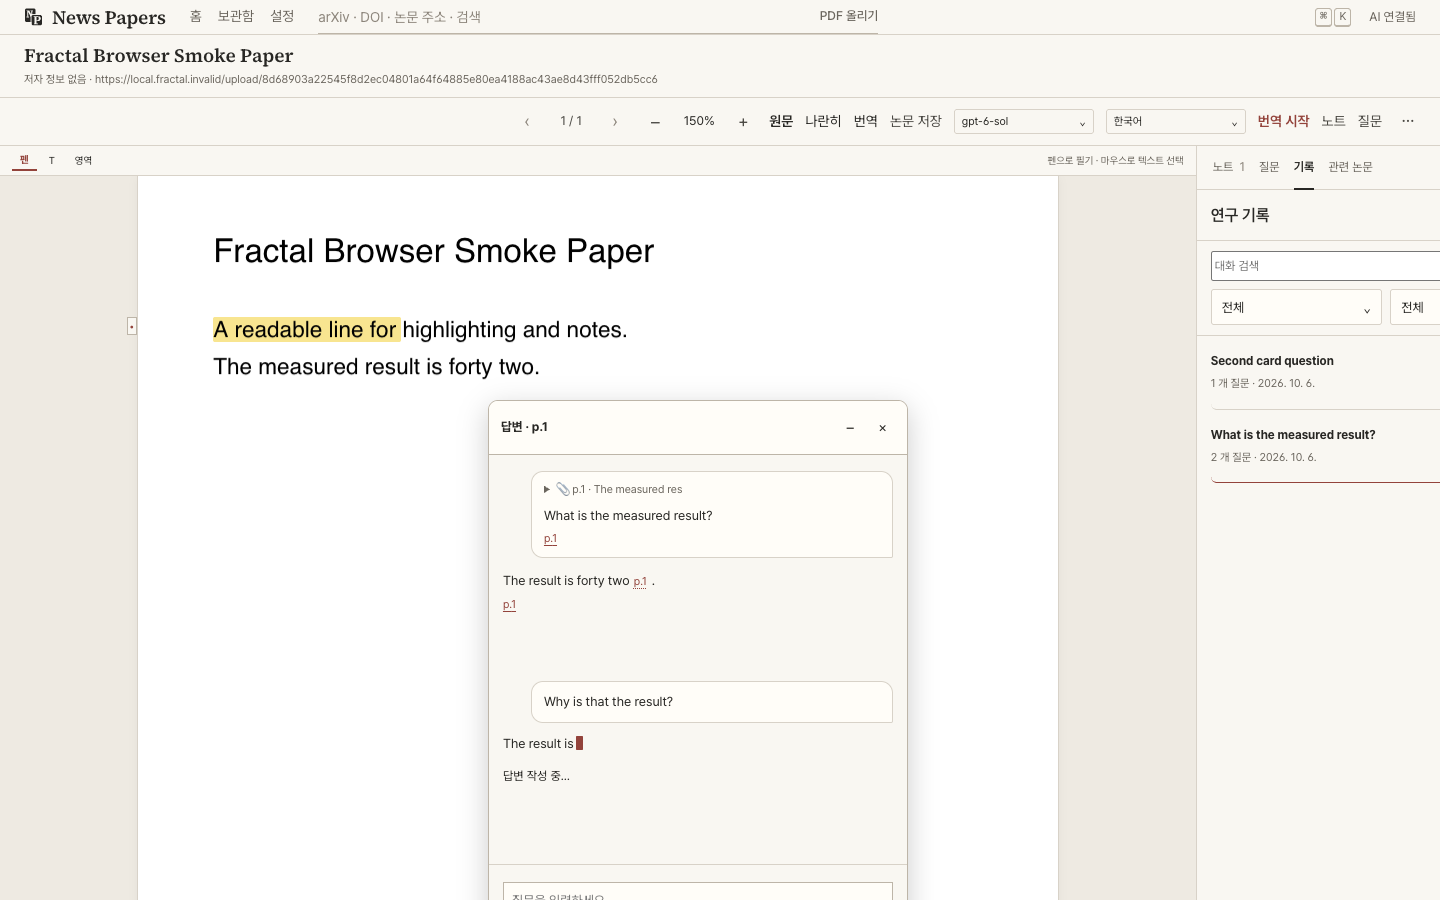
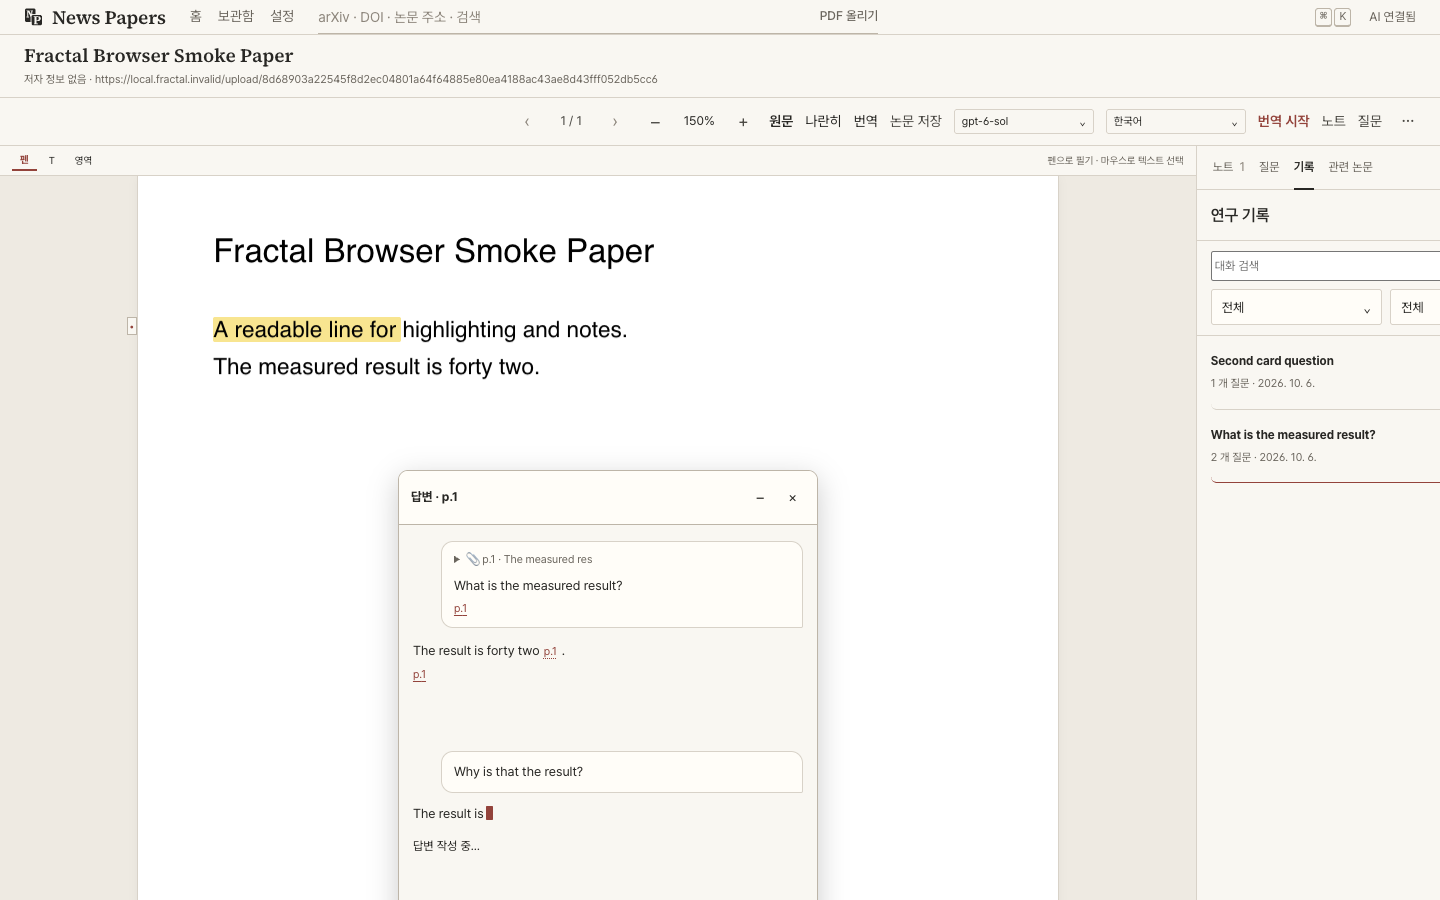
Collapsed answer markers can be dragged from anywhere on the marker
On desktop the 40px collapsed card is almost all expand button, and drags that
started on a button were ignored, so the marker only moved when grabbed by its
4px edge. The marker now starts a drag; a press without movement still expands.
On Android the collapsed marker was tap-only; it now drags (and saves) as well.
The source stays highlighted while a collapsed marker is dragged.

diff --git a/apps/android/app/src/main/java/app/fractal/reader/ReaderPageAnswers.kt b/apps/android/app/src/main/java/app/fractal/reader/ReaderPageAnswers.kt
@@ -1,6 +1,8 @@
 package app.fractal.reader
 
 import androidx.compose.foundation.Canvas
+import androidx.compose.foundation.gestures.detectDragGestures
+import androidx.compose.foundation.gestures.detectTapGestures
 import androidx.compose.foundation.layout.*
 import androidx.compose.material3.*
 import androidx.compose.runtime.*
@@ -8,8 +10,13 @@ import androidx.compose.ui.*
 import androidx.compose.ui.geometry.Offset
 import androidx.compose.ui.geometry.Size
 import androidx.compose.ui.graphics.Path
+import androidx.compose.ui.input.pointer.pointerInput
 import androidx.compose.ui.platform.LocalDensity
 import androidx.compose.ui.platform.testTag
+import androidx.compose.ui.semantics.Role
+import androidx.compose.ui.semantics.onClick
+import androidx.compose.ui.semantics.role
+import androidx.compose.ui.semantics.semantics
 import androidx.compose.ui.unit.*
 import app.fractal.data.*
 import app.fractal.design.LocalFractalColors
@@ -69,8 +76,8 @@ internal fun BoxScope.ReaderPageAnswers(app: ReaderApplication, paperKey: String
         }
         LaunchedEffect(saved) { saved?.let { state = it.state; if (!active) position = Offset(it.x * width, it.y * height) } }
         // Keep the overlay mounted: inserting a page sibling during DOWN cancels child gestures.
-        Canvas(Modifier.matchParentSize().testTag(if (active && state == "open") "reader-answer-source-$thread" else "reader-answer-source-inactive-$thread")) {
-            if (active && state == "open") {
+        Canvas(Modifier.matchParentSize().testTag(if (active && state != "dismissed") "reader-answer-source-$thread" else "reader-answer-source-inactive-$thread")) {
+            if (active && state != "dismissed") {
                 val selection = target.selected.second
                 val range = pin?.provenance?.get("layoutRange") as? JsonObject
                 val start = range?.get("start")?.jsonPrimitive?.intOrNull
@@ -98,10 +105,22 @@ internal fun BoxScope.ReaderPageAnswers(app: ReaderApplication, paperKey: String
         when (state) {
             "open" -> key("answer-card") { ReaderAnswerCard(app, paperKey, pages, target, position, { position = it }, width.toFloat(), height.toFloat(), onJump,
                 onClose = { persist("dismissed") }, onMinimize = { persist("collapsed") }, onMoveEnd = { moveJob?.cancel(); moveJob = app.submissionScope.launch { delay(250); persist() } }, onActive = { active = it }) }
-            "collapsed" -> Surface(onClick = { persist("open") }, modifier = Modifier.offset {
+            // The marker is both the expand button and the handle that moves the collapsed card.
+            "collapsed" -> Surface(modifier = Modifier.offset {
                 IntOffset(position.x.roundToInt().coerceIn(0, (width - with(density) { 32.dp.roundToPx() }).coerceAtLeast(0)),
                     position.y.roundToInt().coerceIn(0, (height - with(density) { 32.dp.roundToPx() }).coerceAtLeast(0)))
-            }.size(32.dp).nativeInkBlocker().testTag("reader-answer-pin-${pin?.requestId ?: thread}"),
+            }.size(32.dp).nativeInkBlocker()
+                .pointerInput(thread) { detectTapGestures(onTap = { persist("open") }) }
+                .pointerInput(thread, width, height) {
+                    val marker = 32.dp.toPx()
+                    detectDragGestures(onDragStart = { active = true }, onDragEnd = { active = false; persist() }, onDragCancel = { active = false; persist() }) { change, amount ->
+                        change.consume()
+                        position = Offset((position.x + amount.x).coerceIn(0f, (width - marker).coerceAtLeast(0f)),
+                            (position.y + amount.y).coerceIn(0f, (height - marker).coerceAtLeast(0f)))
+                    }
+                }
+                .semantics { role = Role.Button; onClick(label = if (target.explain || pin?.kind == "explanation") "Open explanation" else "Open answer") { persist("open"); true } }
+                .testTag("reader-answer-pin-${pin?.requestId ?: thread}"),
                 shape = androidx.compose.foundation.shape.CircleShape, color = colors.focus) {
                 Box(contentAlignment = Alignment.Center) { Text(if (target.explain || pin?.kind == "explanation") "i" else "?", color = colors.paper) }
             }

diff --git a/packages/ui/src/reader/AnswerPopup.tsx b/packages/ui/src/reader/AnswerPopup.tsx
@@ -307,16 +307,22 @@ function PageCard({
     if (host.current) observer.observe(host.current);
     return () => observer.disconnect();
   }, [page]);
+  // A collapsed card is almost all marker button, so the marker itself must be a drag handle;
+  // a press that does not move still expands it through the button's click.
+  const dragged = useRef(false);
   const drag = (event: React.PointerEvent) => {
-    if (event.button !== 0 || (event.target as HTMLElement).closest('button')) return;
-    event.preventDefault();
+    const onButton = (event.target as HTMLElement).closest('button');
+    if (event.button !== 0 || (onButton && !(collapsed && onButton.hasAttribute('aria-expanded')))) return;
+    if (!onButton) event.preventDefault();
     event.stopPropagation();
-    heading.current?.focus({ preventScroll: true });
+    dragged.current = false;
+    if (!onButton) heading.current?.focus({ preventScroll: true });
     const box = page.getBoundingClientRect(),
       start = { x: event.clientX, y: event.clientY };
     let next = { x: position.x, y: position.y };
-    setMoving(next);
     const move = (e: PointerEvent) => {
+      if (!dragged.current && Math.hypot(e.clientX - start.x, e.clientY - start.y) < 4) return;
+      dragged.current = true;
       next = clamp({ x: position.x + (e.clientX - start.x) / box.width, y: position.y + (e.clientY - start.y) / box.height });
       setMoving(next);
     };
@@ -324,8 +330,12 @@ function PageCard({
       window.removeEventListener('pointermove', move);
       window.removeEventListener('pointerup', end);
       window.removeEventListener('pointercancel', end);
-      update(next);
+      if (dragged.current) update(next);
       setMoving(null);
+      // The click that ends a drag fires right after pointerup; later clicks are real clicks.
+      window.setTimeout(() => {
+        dragged.current = false;
+      });
     };
     window.addEventListener('pointermove', move);
     window.addEventListener('pointerup', end);
@@ -388,7 +398,13 @@ function PageCard({
           <button
             aria-expanded={!collapsed}
             aria-label={collapsed ? say('Expand answer', '답변 펼치기') : say('Collapse answer', '답변 접기')}
-            onClick={() => update({ state: collapsed ? 'open' : 'collapsed' })}
+            onClick={() => {
+              if (dragged.current) {
+                dragged.current = false;
+                return;
+              }
+              update({ state: collapsed ? 'open' : 'collapsed' });
+            }}
           >
             {collapsed ? (card.source.kind && card.source.kind !== 'text' ? 'i' : '?') : '−'}
           </button>

diff --git a/apps/android/app/src/androidTest/java/app/fractal/reader/ReaderAnswerCardTest.kt b/apps/android/app/src/androidTest/java/app/fractal/reader/ReaderAnswerCardTest.kt
@@ -132,7 +132,16 @@ class ReaderAnswerCardTest {
         assertTrue("Card scrolls with the PDF page", after.top < before.top - 20f)
         screenshot("01-page-scroll")
         compose.onNodeWithTag("reader-answer-collapse").performClick()
-        compose.onNodeWithTag("reader-answer-pin-retained-root-$key").assertExists().performClick()
+        val pin = compose.onNodeWithTag("reader-answer-pin-retained-root-$key").assertExists()
+        val pinBefore = pin.fetchSemanticsNode().boundsInRoot
+        // The collapsed marker is its own drag handle: dragging moves it and keeps it collapsed.
+        pin.performTouchInput { down(center); moveBy(androidx.compose.ui.geometry.Offset(60f, 90f)); moveBy(androidx.compose.ui.geometry.Offset(60f, 90f)); up() }
+        compose.waitForIdle()
+        val pinAfter = compose.onNodeWithTag("reader-answer-pin-retained-root-$key").fetchSemanticsNode().boundsInRoot
+        assertTrue("Collapsed marker moves when dragged", pinAfter.top > pinBefore.top + 60f && pinAfter.left > pinBefore.left + 40f)
+        compose.onNodeWithTag("reader-answer-card").assertDoesNotExist()
+        compose.waitUntil(5000) { runBlocking { app.database.metadata().history("retained-root-$key")?.answerPlacement()?.let { it.state == "collapsed" && it.y > .35f } == true } }
+        compose.onNodeWithTag("reader-answer-pin-retained-root-$key").performClick()
         compose.onNodeWithTag("reader-answer-card").assertExists()
         compose.onNodeWithTag("reader-answer-question").performTouchInput { click() }
         compose.waitUntil(5000) { compose.onAllNodesWithTag("reader-answer-source-retained-root-$key").fetchSemanticsNodes().isNotEmpty() }

diff --git a/scripts/e2e.ts b/scripts/e2e.ts
@@ -278,7 +278,19 @@ async function main(): Promise<void> {
     await page.screenshot({ path: join(qaDir, 'source-highlight.png') });
     await popup.getByRole('button', { name: '답변 접기', exact: true }).click();
     assert.equal(await popup.locator('.answer-popup__content').isVisible(), false);
-    await popup.getByRole('button', { name: '답변 펼치기', exact: true }).click();
+    // The collapsed marker is almost all button: dragging from its centre must move it.
+    const collapsedMarker = popup.getByRole('button', { name: '답변 펼치기', exact: true });
+    const markerBefore = await collapsedMarker.boundingBox();
+    assert.ok(markerBefore);
+    await page.mouse.move(markerBefore.x + markerBefore.width / 2, markerBefore.y + markerBefore.height / 2);
+    await page.mouse.down();
+    await page.mouse.move(markerBefore.x + markerBefore.width / 2 - 90, markerBefore.y + markerBefore.height / 2 + 70, { steps: 8 });
+    await page.mouse.up();
+    const markerAfter = await collapsedMarker.boundingBox();
+    assert.ok(markerAfter && Math.hypot(markerAfter.x - markerBefore.x, markerAfter.y - markerBefore.y) > 40);
+    assert.equal(await popup.locator('.answer-popup__content').isVisible(), false);
+    console.log('PASS collapsed marker drags from its centre without expanding');
+    await collapsedMarker.click();
     assert.equal(await popup.locator('.answer-popup__content').isVisible(), true);
     console.log('PASS popup collapses and expands');
     await page.keyboard.press('Escape');
